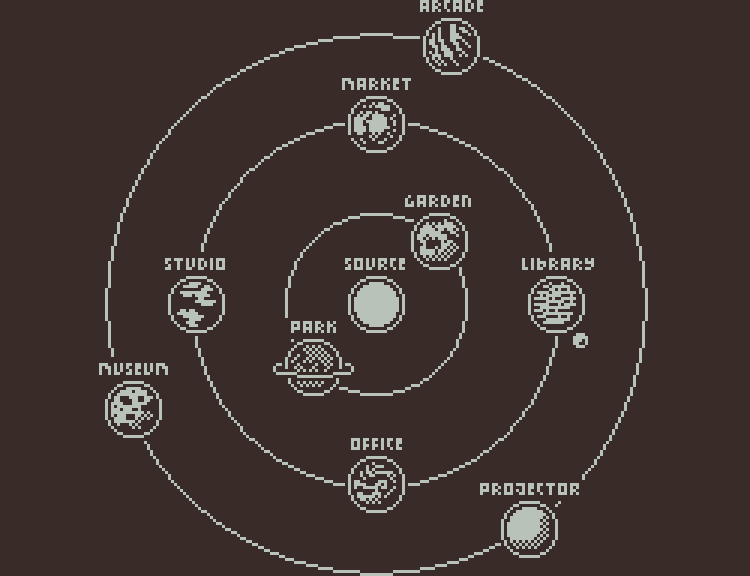
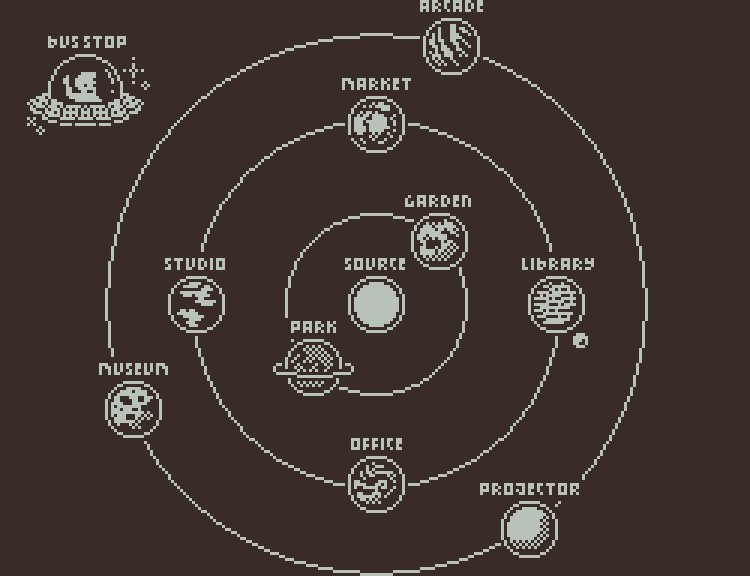
Update map
New location (bus stop)
Updated links within some of the locations

Changed region(s): [[0.0307, 0.0625, 0.184, 0.2188]]

diff --git a/precipice/map/index.html b/precipice/map/index.html
@@ -18,7 +18,7 @@
 		<h1>lina's map of the internet </h1>
 		<div class="navigate-back"><a href="/precipice">← back to the home page & navigation?</a></div>
 		<p>
-		<i> version 2.1 </i><br>
+		<i> version 2.2</i><br>
 		<a href="#what">what is this?</a></p><br>
 	</div>
 	<div style="position: relative;">
@@ -33,32 +33,33 @@
 	  <a href="museum.html" title="museum" style="position: absolute; left: 12.93%; top: 63.02%; width: 9.47%; height: 13.37%; z-index: 2;"></a>
 	  <a href="office.html" title="office" style="position: absolute; left: 46.4%; top: 75.87%; width: 7.73%; height: 13.19%; z-index: 2;"></a>
 	  <a href="projector.html" title="projector" style="position: absolute; left: 63.6%; top: 83.85%; width: 13.6%; height: 13.02%; z-index: 2;"></a>
+	  <a href="/precipice/busstop" title="bus stop" style="position: absolute; left: 3.5%; top: 6%; width: 16.5%; height: 17%; z-index: 2;"></a>
 	</div>
 	
 	<div class="content">
 	<h1 id="what">what is this?</h1>
-	<p>a webpage by <a href="/precipice">lina</a>.</p>
 	<p>Welcome to my map of the internet, built with <a href="http://tiana.land/map/1/">Tiana Dueck's guide</a>. In a way, this map acts a means to navigate the internet in a much more intentional, personal and meaningful manner. I like to think of it as a mix between a guidebook and a curated bookmarks bar — when I'm lost on the internet, I hope to come back to this page to find my footing in how I wish to explore.</p>
 	
 	<p>The planets in the map above are clickable and will lead to different pages that serve as a waypoint to places on the internet.	This version was built off the idea of planets in orbit. The source sits in the middle, and the planets, or waypoints, orbit around this sun.</p>
 	
 	<p>The pixel art is all mine, while the responsive image map was achieved through <a href="https://zaneray.com/responsive-image-map/">this responsive image map generator</a>
 	together with <a href="https://stackoverflow.com/a/53597608">this solution</a>.</p>
-	
+	<br>
 	<h1>legend</h1>
-	<p>In case there are accessibility issues, there are ten links available, situated radiating outwards from the source:</p>
+	<p>In case there are accessibility issues, there are ten links available, whose locations radiate outwards from the source:</p>
 	<span style="text-align: left;">
 	<ul>
 		<li><a href="/precipice">home</a></li> the source, my place on the internet
-		<li><a href="https://are.na/lina-l">garden</a></li> where to nurture ideas
+		<li><a href="https://are.na/lina-l">garden</a></li> where I nurture ideas
 		<li><a href="park.html">park</a></li> where I sit for awhile and meditate
-		<li><a href="library.html">library</a></li> where read & learn interesting things, and find new ideas
-		<li><a href="office.html">office</a></li> where I go to work
-		<li><a href="/tsp">studio</a></li> where I go to do creative work
+		<li><a href="library.html">library</a></li>where I read & learn interesting things, and find new ideas
+		<li><a href="office.html">office</a></li> where I work
+		<li><a href="/tsp">studio</a></li> where I do creative work
 		<li><a href="https://are.na/explore">market</a></li> where I explore & find new places and trinkets
-		<li><a href="arcade.html">arcade</a></li> where I go to have fun
-		<li><a href="projector.html">projector</a></li> where I go to watch films
+		<li><a href="arcade.html">arcade</a></li> where I have fun
+		<li><a href="projector.html">projector</a></li> where I watch films
 		<li><a href="museum.html">museum</a></li> where I find nostalgia
+		<li><a href="/precipice/busstop">bus stop</a></li> where I visit other galaxies (other people's websites, including friends!)
 	</ul>
 	</span>
 	</div>

diff --git a/precipice/map/projector.html b/precipice/map/projector.html
@@ -11,11 +11,13 @@
 	<div id="main">
 	<div class="content">
 		<h1>projector</h1>
+		<p>where I watch films</p>
 		<span style="text-align: left;">
 	<ul>
-		<li><a href="https://www.pbs.org/wgbh/frontline/" target="_blank">frontline documentaries</a></li>
-		<li><a href="https://letterboxd.com/stautis/list/good-films-90-minutes-or-less/" target="_blank">90 mins or less films</a></li>
-		<li><a href="https://letterboxd.com/darrencb/list/21st-century-black-white-films/" target="_blank">21st century bw films</a></li>
+		<li><a href="https://www.pbs.org/wgbh/frontline/">frontline documentaries</a></li>
+		<li><a href="https://letterboxd.com/stautis/list/good-films-90-minutes-or-less/">90 mins or less films</a></li>
+		<li><a href="https://letterboxd.com/darrencb/list/21st-century-black-white-films/">21st century bw films</a></li>
+		<li><a href="https://www.kanopy.com/en">kanopy</a></li>
 	</ul>
 	</span>
 	<br>

diff --git a/precipice/map/museum.html b/precipice/map/museum.html
@@ -11,9 +11,10 @@
 	<div id="main">
 	<div class="content">
 		<h1>museum</h1>
+		<p>where I find nostalgia</p>
 		<span style="text-align: left;">
 	<ul>
-		<li><a href="http://www.lissaexplains.com/" target="_blank">lissa explains it all</a></li>
+		<li><a href="http://www.lissaexplains.com/">lissa explains it all</a></li>
 		<li><a href="https://web.archive.org/web/20150214094700/http://ferny.dailycute.net/">ferny dust</a></li>
 		<li><a href="https://web.archive.org/web/20150214122646/http://angelica.dailycute.net/">angelica daily cute</a></li>
 		<li><a href="https://neocities.org/">neocities</a></li>

diff --git a/precipice/map/park.html b/precipice/map/park.html
@@ -10,9 +10,11 @@
   <body>
 	<div id="main">
 	<div class="content">
-		<h1>park</h1>
-		<span style="text-align: left;">
+	<h1>park</h1>
+	<p>where I sit for awhile and meditate</p>
+	<span style="text-align: left;">
 	<ul>
+		<li><a href="/precipice/sundayssites/calm.html">breathe...</a></li>
 		<li><a href="https://www.softspace.world/index.html">soft space</a></li>
 		<li><a href="https://www.window-swap.com/">window swap</a></li>
 		<li><a href="https://www.tree.fm/forest/1">tree fm</a></li>

diff --git a/precipice/map/library.html b/precipice/map/library.html
@@ -11,6 +11,7 @@
 	<div id="main">
 	<div class="content">
 		<h1>library</h1>
+		<p>where I read & learn interesting things, and find new ideas</p>
 		<span style="text-align: left;">
 	<ul>
 		<li><a href="https://sander.are.na/lina-l/reading-garden">my reading garden</a></li>

diff --git a/precipice/map/arcade.html b/precipice/map/arcade.html
@@ -11,6 +11,7 @@
 	<div id="main">
 	<div class="content">
 		<h1>arcade</h1>
+		<p>where I have fun</p>
 		<span style="text-align: left;">
 		<ul>
 			<li><a href="https://www.fallenlondon.com/login">fallen london</a></li>

diff --git a/precipice/map/office.html b/precipice/map/office.html
@@ -11,6 +11,7 @@
 	<div id="main">
 	<div class="content">
 		<h1>office</h1>
+		<p>where I work</p>
 		<span style="text-align: left;">
 	<ul>
 		<li><a href="https://amalinalai.github.io/">my professional site</a></li>
